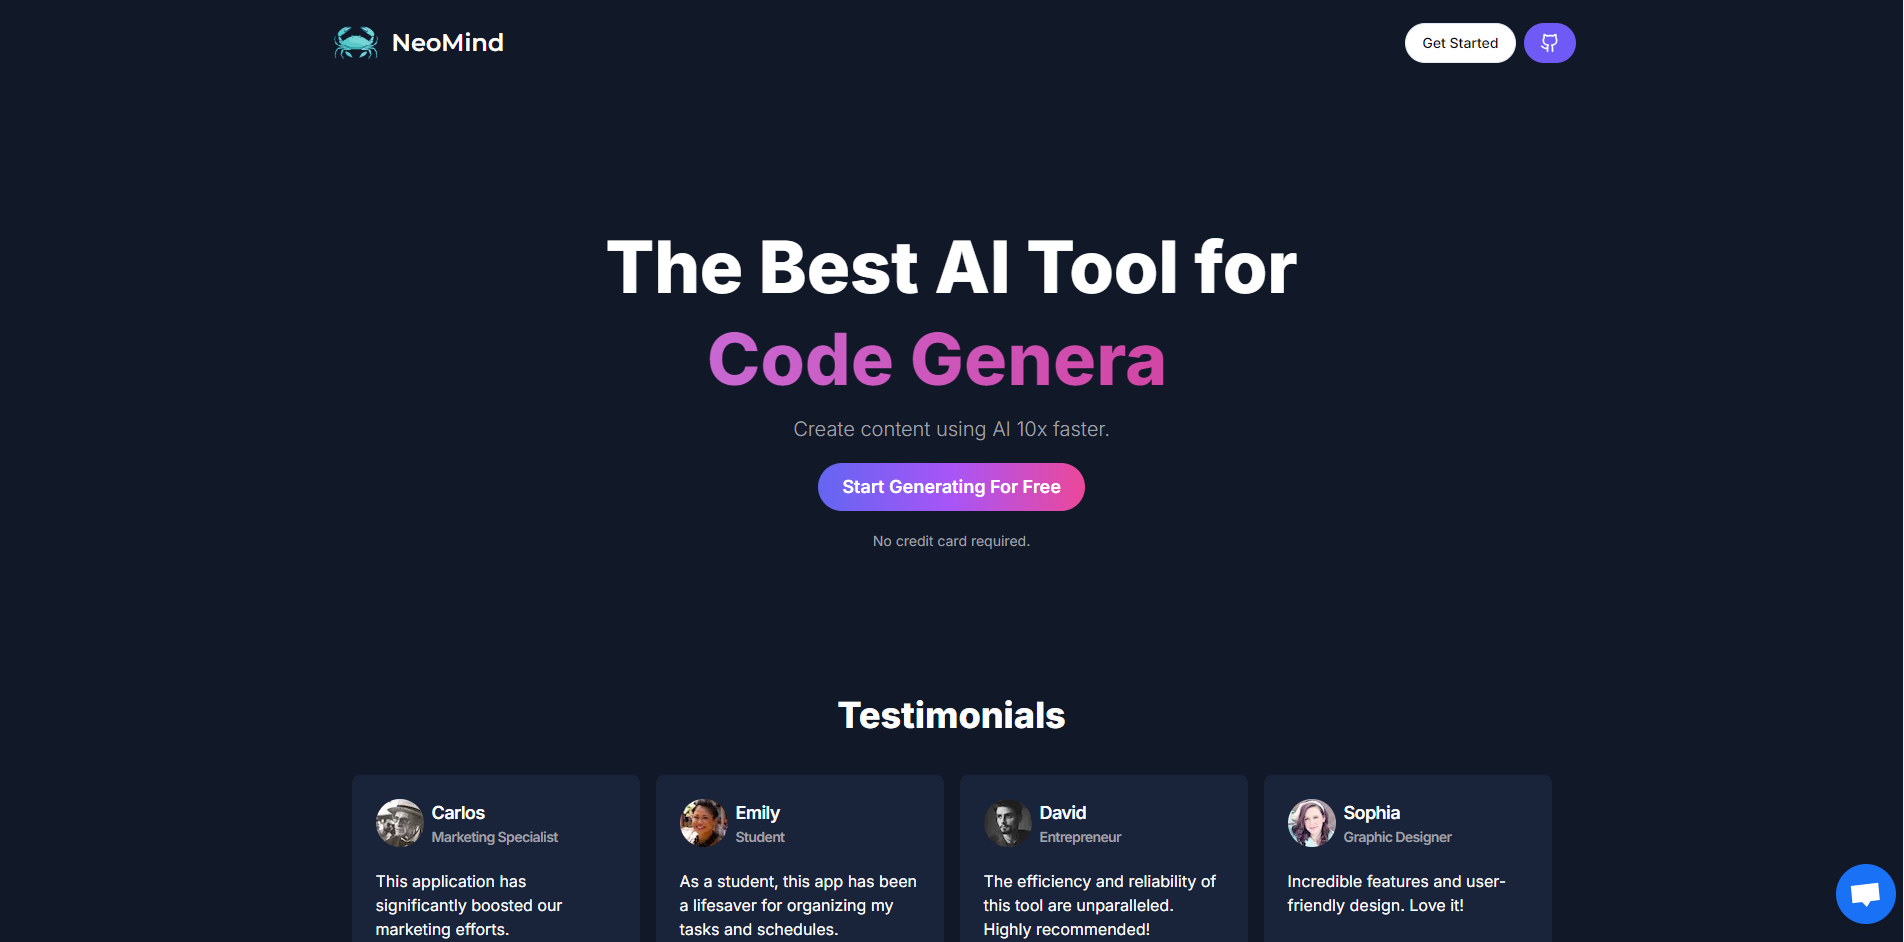
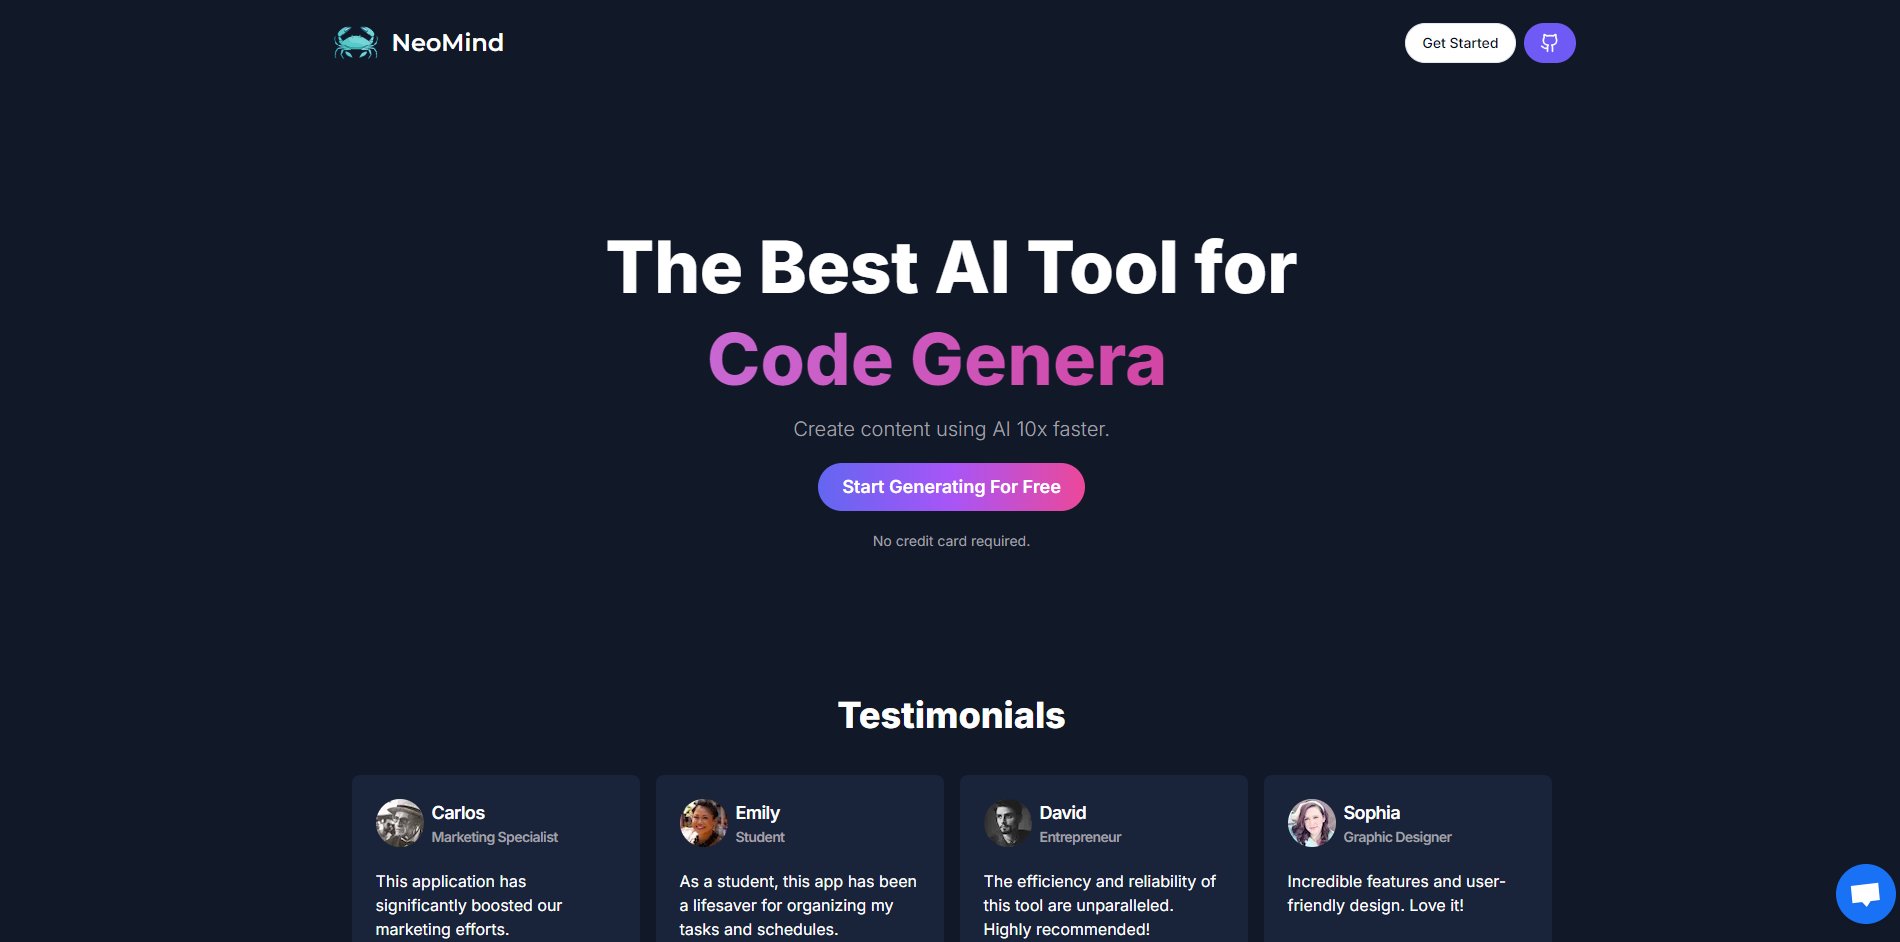
hello

diff --git a/components/landing-hero.tsx b/components/landing-hero.tsx
@@ -30,7 +30,7 @@ export const LandingHero = () => {
       </div>
 
       <div className="text-sm md:text-xl font-light text-zinc-400">
-        Create content using AI 10x faster.
+        Create content using AI 10x faster
       </div>
 
       <div className="">
@@ -46,7 +46,7 @@ export const LandingHero = () => {
       </div>
 
       <div className="text-zinc-400 text-xs md:text-sm font-normal">
-        No credit card required.
+        No credit card required
       </div>
     </div>
   );
